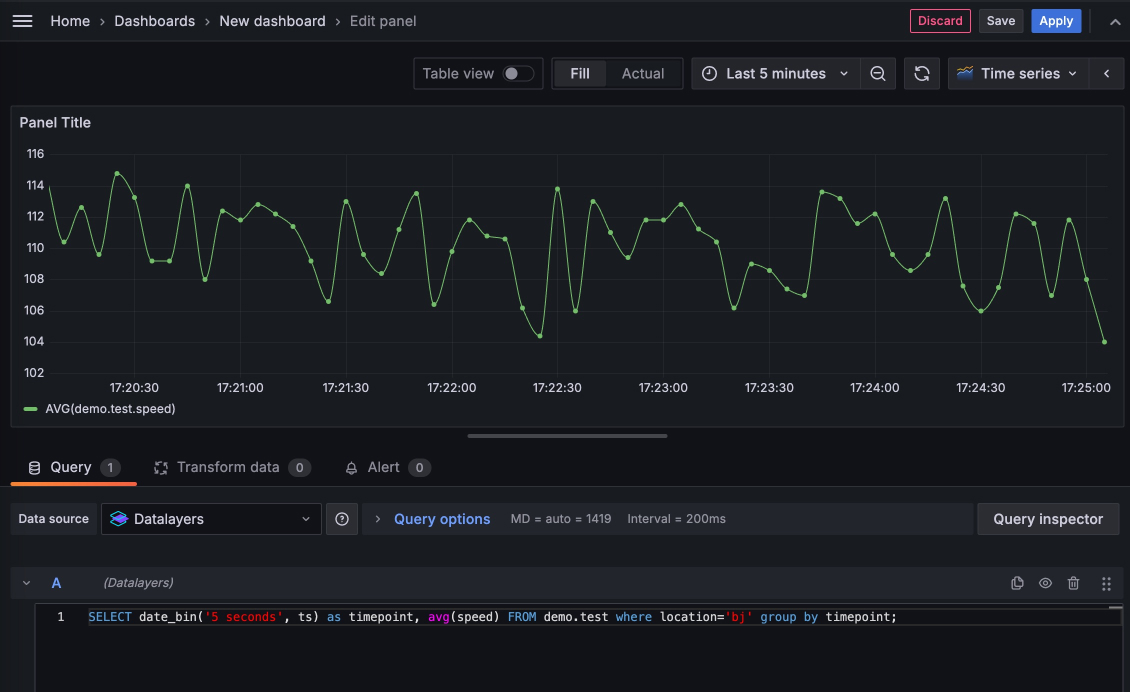
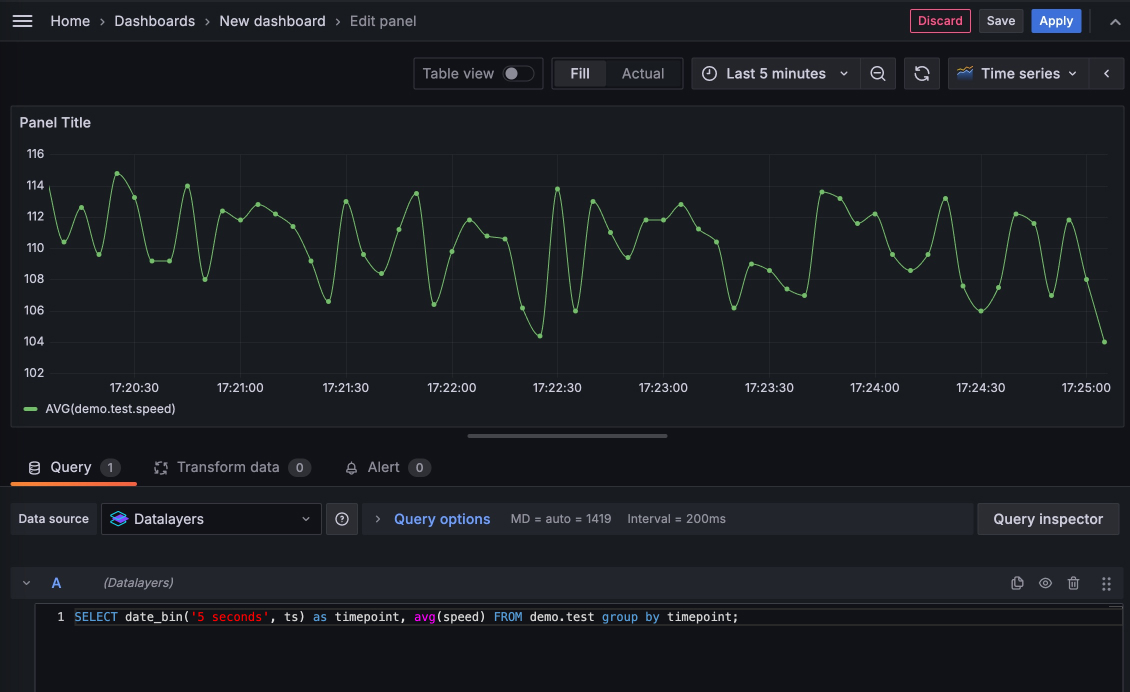
docs: update field

Changed region(s): [[0.0619, 0.8801, 0.8053, 0.9104]]

diff --git a/README.md b/README.md
@@ -84,10 +84,10 @@ dlsql> create database demo;
 ``` bash
 CREATE TABLE test(
   ts TIMESTAMP(3) NOT NULL DEFAULT CURRENT_TIMESTAMP,
-  speed int NOT NULL,
-  temperature int,
-  location string,
-  timestamp KEY (ts)) PARTITION BY HASH(speed) PARTITIONS 2 ENGINE=TimeSeries;
+  sn int NOT NULL,
+  speed float NOT NULL,
+  temperature float,
+  timestamp KEY (ts)) PARTITION BY HASH(sn) PARTITIONS 2 ENGINE=TimeSeries;
 
 ```
 
@@ -99,7 +99,7 @@ do
   speed=$((RANDOM % 21 + 100))
   temperature=$((RANDOM % 11 + 10))
   timestamp=$(date +%s%9N) # ns
-  code="insert into demo.test(speed,temperature,location) values(${speed}, ${temperature}, 'bj')"
+  code="insert into demo.test(sn,speed,temperature) values(10000, ${temperature}, ${speed})"
   echo "$code"
   curl -u"admin:public" -X POST http://127.0.0.1:18361/api/v1/sql?db=demo -H 'Content-Type: application/binary' -d "$code" -s -o /dev/null
   sleep 1
@@ -134,7 +134,7 @@ Try to add dashboard by `Menu - Dashboards` page.
 For example:
 
 ``` sql
-SELECT date_bin('5 seconds', ts) as timepoint, avg(speed) FROM demo.test where location='bj' group by timepoint;
+SELECT date_bin('5 seconds', ts) as timepoint, avg(speed) FROM demo.test group by timepoint;
 
 ```
 As always, you can use [SQL functions](https://docs.datalayers.cn/datalayers/latest/sql-reference/sql-functions.html) in the sentence.
